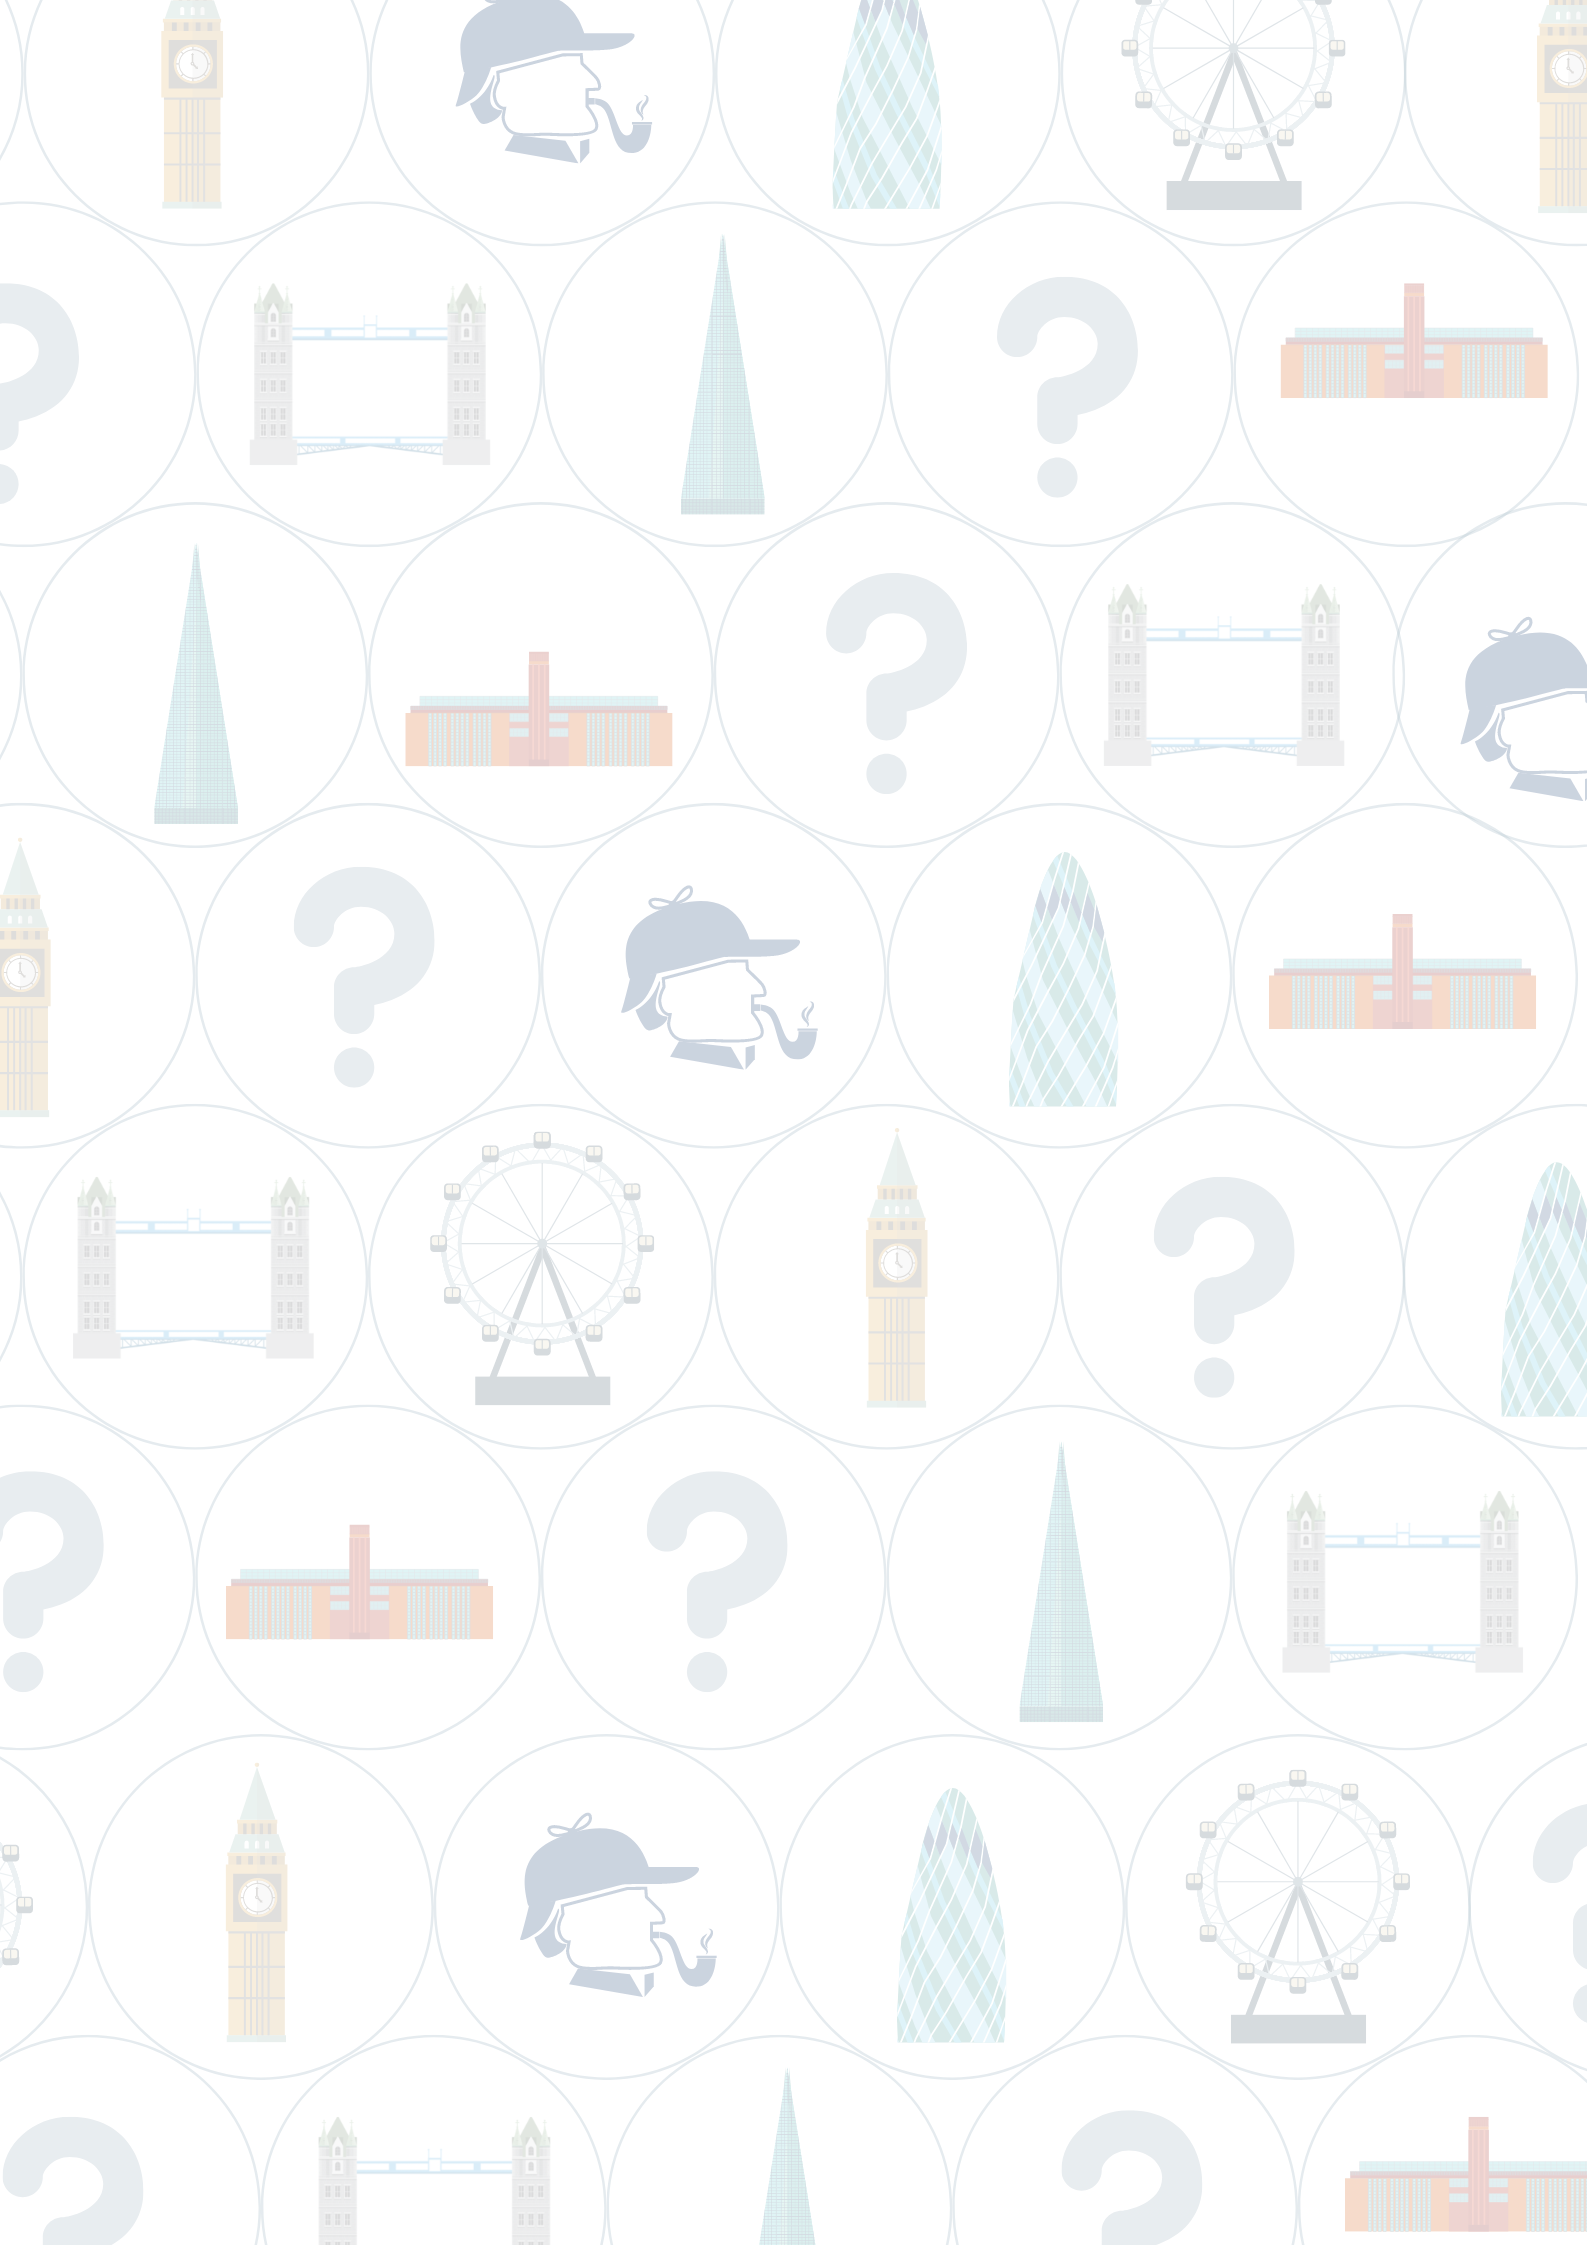
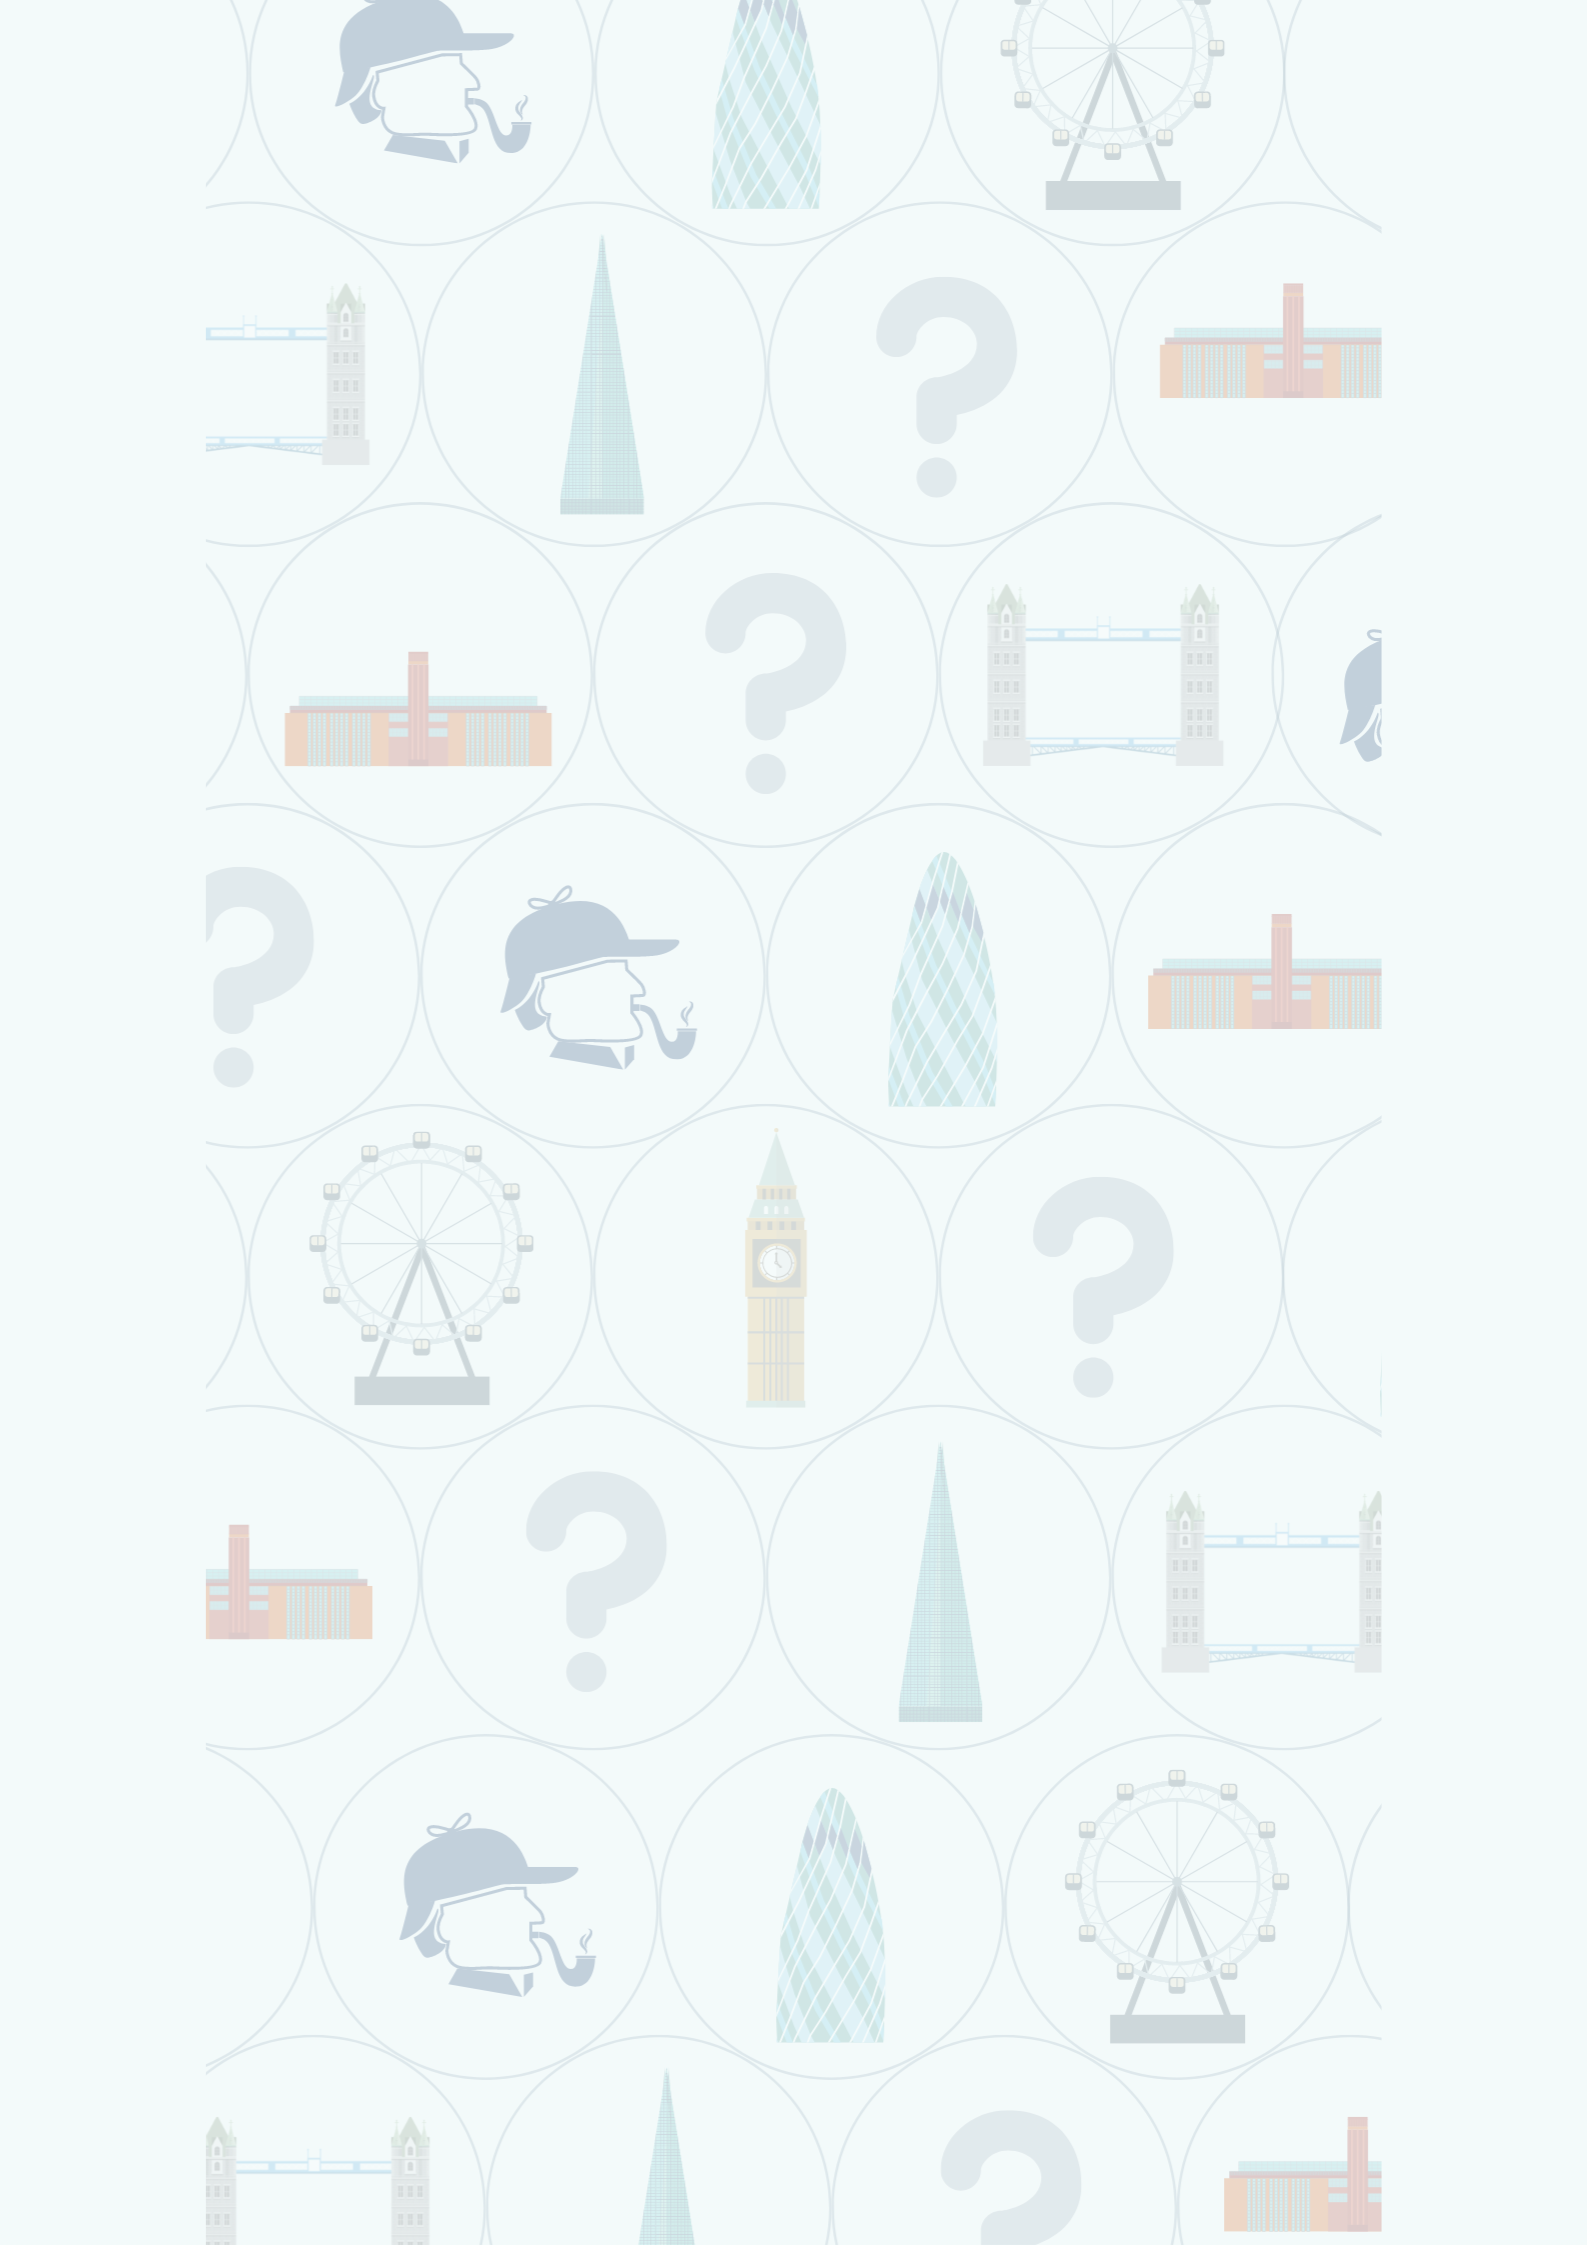
Add landmarks background and coin styling

diff --git a/frontend/src/components/congraulationsNextClue/congratulationsNextClue.js b/frontend/src/components/congraulationsNextClue/congratulationsNextClue.js
@@ -3,6 +3,7 @@ import {
   View,
   Text,
   StyleSheet,
+  ImageBackground,
   TouchableOpacity,
   Image,
   Alert,
@@ -16,13 +17,94 @@ const CongratulationsNextClue = ({ navigation }) => {
   };
 
   return (
-    <View>
-      <Text>Congratulations next clue</Text>
+    <View style={styles.page}>
+      <ImageBackground
+        source={require('../../images/background-landmarks.png')}
+        resizeMode="cover"
+        style={styles.background}
+      ></ImageBackground>
+
+      <Text style={styles.title}>Congratulations, you solved Location __</Text>
+
+      <Image
+          source={require('../../images/golden-coin2.png')}
+          style={styles.image}
+      />
+
+      <View style={styles.area}>
+        <Text style={styles.subtitle}> Add map here</Text>
+      </View>
+
       <TouchableOpacity onPress={nextLocation}>
-        <Image source={require('../../images/go-button.png')} />
+        <Image 
+        source={require('../../images/next-location-button.png')} 
+        style={styles.buttonImage}
+        />
       </TouchableOpacity>
     </View>
   );
 };
+
+const styles = StyleSheet.create({
+  page: {
+    flex: 1,
+    // backgroundColor: '#EAF3F1',
+  },
+  background: {
+    flex: 1,
+    resizeMode: 'cover',
+    position: 'absolute',
+    width: '101%',
+    height: '104.5%',
+  },
+  title: {
+    fontSize: 20,
+    color: '#204376',
+    fontWeight: 'bold',
+    textAlign: 'center',
+    padding: 5,
+    marginLeft: 50,
+    marginRight: 50,
+    marginTop: 50,
+    marginBottom: 30,
+  },
+  subtitle: {
+    fontSize: 20,
+    color: '#204376',
+    fontWeight: 'bold',
+    textAlign: 'center',
+    // padding: 5,
+    // marginLeft: 50,
+    // marginRight: 50,
+    // marginTop: 20,
+    // marginBottom: 0,
+  },
+  image: {
+    resizeMode: 'contain',
+    height: 280,
+    width: 280,
+    marginTop: -60,
+    marginLeft: 60,
+  },
+  area: {
+    fontWeight: 'bold',
+    textAlign: 'center',
+    borderStyle: 'dashed',
+    borderWidth: 1,
+    borderColor: '#204376',
+    borderRadius: 25,
+    padding: 50,
+    marginLeft: 50,
+    marginRight: 50,
+  },
+  buttonImage: {
+    resizeMode: 'contain',
+    height: 200,
+    width: 200,
+    marginLeft: 100,
+    // marginTop will follow the area
+    marginTop: 20,
+  },
+});
 
 export default CongratulationsNextClue;
